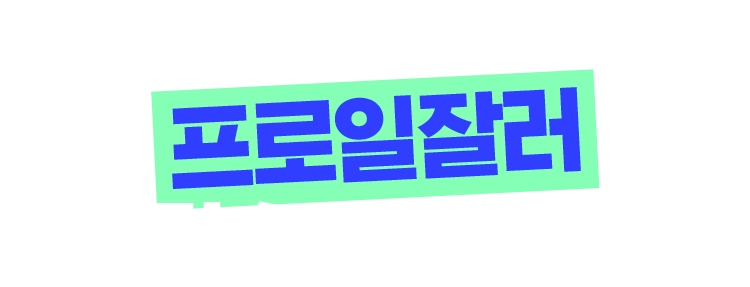
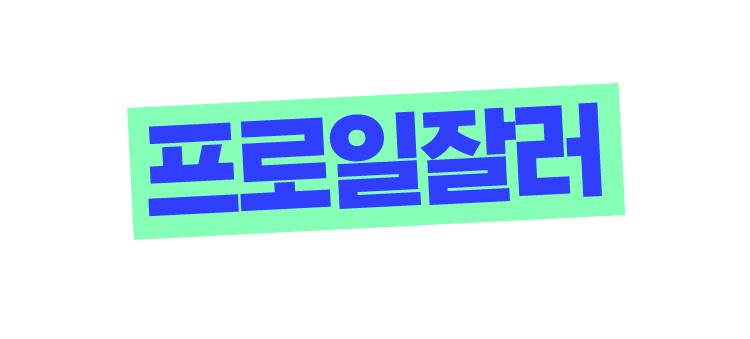
브랜드사이트 브릿지페이지 수정

Changed region(s): [[0.1533, 0.223, 0.8587, 0.7247], [0.276, 0.2787, 0.368, 0.3066], [0.4907, 0.2787, 0.5213, 0.3066]]

diff --git a/apps/010pay/010pay-brand/html/gigworker/bridge.html b/apps/010pay/010pay-brand/html/gigworker/bridge.html
@@ -7,11 +7,11 @@
 <meta name="viewport" content="width=device-width, initial-scale=1.0, minimum-scale=1.0, user-scalable=no">
 <meta name="format-detection" content="telephone=no, address=no, email=no">
 <link rel="stylesheet" type="text/css" href="../../resource/fonts/notosanskr-v13/notosanskr.min.css">
-<link rel="stylesheet" type="text/css" href="../../resource/css/promotion.min.css?ver=230320">
+<link rel="stylesheet" type="text/css" href="../../resource/css/promotion.min.css?ver=230329">
 <script src="../../resource/library/jquery-1.8.3.min.js"></script>
 <!-- infomation -->
 <meta name="author" content="010PAY">
-<meta property="og:image" content="https://010pay.kr/resource/images/promotion/benefit/img-share.png">
+<meta property="og:image" content="https://ux.sbsvc.online/010pay/010pay-brand/resource/images/promotion/benefit/img-share.jpg">
 <meta property="og:image:width" content="800">
 <meta property="og:image:height" content="420">
 <style>
@@ -44,7 +44,7 @@
 			<div class="container full">
 				<!-- section-1 -->
 				<div class="section section-1">
-					<img class="ani-slide-1" src="../../resource/images/promotion/benefit/bridge-title-mo-01.png" alt="03.28(화) ~ 04.30(일) 내 숨은 돈 계산하고 프로일잘러 필수템 받자!">
+					<img class="ani-slide-1" src="../../resource/images/promotion/benefit/bridge-title-01.png?ver=230329" alt="03.30(목) ~ 04.30(일) 내 숨은 돈 계산하고 프로일잘러 필수템 받자!">
 					<div class="flow-banner flow-bannerRight">
 						<ul class="list list-right">
 							<li><img src="../../resource/images/promotion/benefit/s-011.png" alt=""></li>
@@ -64,8 +64,8 @@
 				<div class="section-wrap">
 					<img class="ani-slide-1 img1" src="../../resource/images/promotion/benefit/bridge-title-033.png" alt="내가 돌려 받을 세금! 간편 계산기로 내 예상 환급액 조회만 해도 경품이 와르르!">
 				</div>
-				<div class="price-wrap section-wrap">
-					<img class="ani-slide-2 img2" src="../../resource/images/promotion/benefit/bridge-title-044.png" alt="공일공님의
+				<div class="price-wrap section-wrap ani-slide-2">
+					<img class="img2" src="../../resource/images/promotion/benefit/bridge-title-044.png" alt="공일공님의
 					환급액은? ￦730,974">
 					<img src="../../resource/images/promotion/benefit/price.png" alt="" class="price-ani blink">
 				</div>
@@ -76,7 +76,7 @@
 				<div class="section-wrap">
 					<img class="ani-slide-1 img1" src="../../resource/images/promotion/benefit/bridge-title-055.png" alt="내가 받을 필수템은? 지금 확인해 보세요!">
 					<img class="ani-slide-2 img2" src="../../resource/images/promotion/benefit/bridge-title-066.png" alt="혼다 PCX125 1명, LG그램 16Z90RS-GA50K 1명, 하나투어 여행 상품권 100만원 2명, 애플 에어팟 맥스 2명, 메디큐브 에이지알 ATS 에어샷 10명, 골프존 마켓 기프트카드 30만원권 10명">
-					<img class="ani-slide-3 img3" src="../../resource/images/promotion/benefit/bridge-title-06.png" alt="응모한 경품에 당첨되지 않아도 15,000명을 추첨하여 010PAY 포인트 1천원을 드려요!">
+					<img class="ani-slide-3 img3" src="../../resource/images/promotion/benefit/bridge-title-077.png?ver=230329" alt="응모자 중 추첨을 통해 미당첨자 5천명+환급 신청까지 완료한 5천명에게 1,000P씩 총 1천만원을 드려요!">
 				</div>
 			</div>
 			<!-- //section-3 -->
